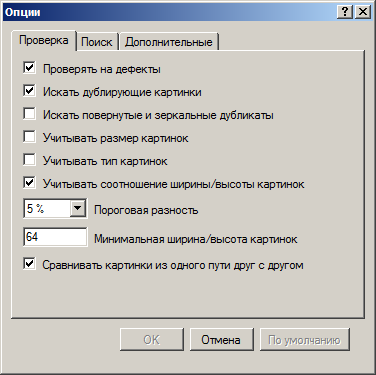
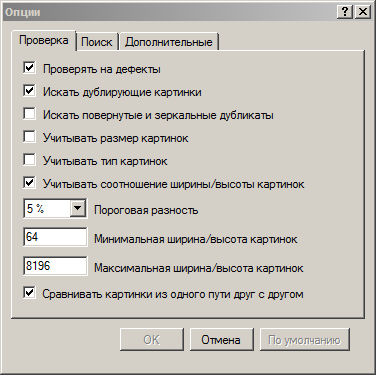
*updated help to version 2.3.0;

Changed region(s): [[0.0, 0.0, 0.9947, 0.0587], [0.0585, 0.7627, 0.8191, 0.8213], [0.0585, 0.6747, 0.8191, 0.7333]]

diff --git a/data/help/english/options.html b/data/help/english/options.html
@@ -76,9 +76,14 @@ By default, this parameter is equal to 5%.
 This parameter is duplicated on the <a href="index.html?page=toolbar.html" target="_top">Tool Bar</a>.
  </p></li>
  <li><p align="justify">
-<b>Minimal image width/height</b> - sets the minimum width/height of images is necessary that they will be checked for the presence of duplicates.
+<b>Minimal image width/height</b> - sets the minimum width/height of images is necessary that they will be checked for the presence of defects or duplicates.
 This option allows you to exclude from the search too small images.
 The default setting is 64. 
+ </p></li>
+ <li><p align="justify">
+<b>Maximal image width/height</b> - sets the maximum width/height of images is necessary that they will be checked for the presence of defects or duplicates.
+This option allows you to exclude from the search too large images.
+The default setting is 8192. 
  </p></li>
  <li><p align="justify">
 <b>Compare images from one path with one another</b> - when this option is enabled, the program compares one with another pictures that are located in the same <a href="index.html?page=paths.html" target="_top">search path</a>. 
@@ -158,6 +163,16 @@ By default, this option is enabled.
   <li><p align="justify">
 <b>PSD</b> - this option specifies whether you want to search for PSD(Photoshop Document) pictures. 
 They usually have an extension <b>*.psd</b>. 
+By default, this option is enabled.
+  </p></li> 
+  <li><p align="justify">
+<b>DDS</b> - this option specifies whether you want to search for DDS(DirectDraw Surface) pictures. 
+They usually have an extension <b>*.dds</b>. 
+By default, this option is enabled.
+  </p></li> 
+  <li><p align="justify">
+<b>TGA</b> - this option specifies whether you want to search for TGA(Truevision Graphics Adapter) pictures. 
+They usually have an extension <b>*.tga</b> or <b>*.tpic</b>. 
 By default, this option is enabled.
   </p></li> 
  </ul>

diff --git a/data/help/english/intro.html b/data/help/english/intro.html
@@ -13,14 +13,14 @@ And then more these collections, then more likely to have the large number of du
 The natural desire of the user is to get rid of them. 
 However, if the collection is large enough, do this manually is a very tedious and unproductive work. 
 <b>AntiDupl.NET</b> program will help you automate this process. 
-It can find and display duplicate images in the main graphic formats: JPEG, GIF, TIFF, BMP, PNG, EMF, WMF, EXIF, ICON, JP2 and PSD. 
+It can find and display duplicate images in the main graphic formats: JPEG, GIF, TIFF, BMP, PNG, EMF, WMF, EXIF, ICON, JP2, PSD, DDS and TGA. 
 The comparison is based on the contents of the files, so the program can find not only almost identical, but similar images. 
 In addition, the program can find images with some types of defects.
 </p>
 
 <p align="justify">
 <b>AntiDupl.NET</b> program is free and open-source software.
-It is simple to use, has high speed and accuracy of work, supports Russian, Byelorussian, Chinese, Ukrainian, German and English interface.
+It is simple to use, has high speed and accuracy of work, supports Russian and English interface.
 </p>
 
 </td></tr></table></body>

diff --git a/data/help/english/news.html b/data/help/english/news.html
@@ -7,6 +7,43 @@
 
 <h3>Last Updates</h3>
 
+<h3>2.3.0</h3>
+
+<p align=justify>
+There are following changes in the current version:
+</p>
+
+<ul>
+ <li><p align="justify">
+Added support for DDS(DirectDraw Surface) and TGA(Truevision Graphics Adapter) image formats. 
+ </p></li>
+ <li><p align="justify">
+A search profiles was added.
+ </p></li>
+ <li><p align="justify">
+Added optional limitation to the maximum size of the image when searching.
+ </p></li>
+ <li><p align="justify">
+Added saving/recovering of the position of the main window.
+ </p></li>
+ <li><p align="justify">
+The program will recommend to remove more new pictures, when all other things being equal.
+ </p></li>
+</ul>
+
+<p align="justify">
+Also bugs were fixed:
+</p>
+
+<ul>
+ <li><p align="justify">
+The program opens an invalid directory when renaming of pictures.
+ </p></li>
+ <li><p align="justify">
+The program does not move a picture to another disk when renaming.
+ </p></li>
+</ul>
+
 <h3>2.2.11</h3>
 
 <p align=justify>

diff --git a/data/help/english/menu.html b/data/help/english/menu.html
@@ -21,12 +21,10 @@ Menu <b>File</b> contains the following items:
 
 <ul>
  <li><p align="justify">
-<b>Save results</b> - this option allows you to save search results into file under any name.
-The chosen name will then be used for automatic saving and restoring the results.
+<b>Open search profile</b> - clicking on the item you can load a previously saved search profile (search settings, search paths and search results).
  </p></li>
  <li><p align="justify">
-<b>Load results</b> - clicking on the item you can load previously saved results.
-The chosen name will then be used for automatic saving and restoring the results.
+<b>Save search profile as</b> - this item allows you to save your current search profile with a new name.
  </p></li>
  <li><p align="justify">
 <b>Exit</b> - when you click on this point the program will exit.

diff --git a/data/help/english/developers.html b/data/help/english/developers.html
@@ -27,7 +27,7 @@ The author expresses his personal thanks to:
 
 <ul>
  <li><p align="justify">
-Vasily Fedoseev for the graphic design for versions <b>1.2.1.0-1.4.0.0, 1.5.2.0-2.2.11</b>.
+Vasily Fedoseev for the graphic design for versions <b>1.2.1.0-1.4.0.0, 1.5.2.0-2.3.0</b>.
  </p></li>
  <li><p align="justify">
 Roberto Corica for the translation into Italian language for versions <b>1.5.3.0-1.6.0.0, 1.8.0.354-1.8.5.379</b>.
